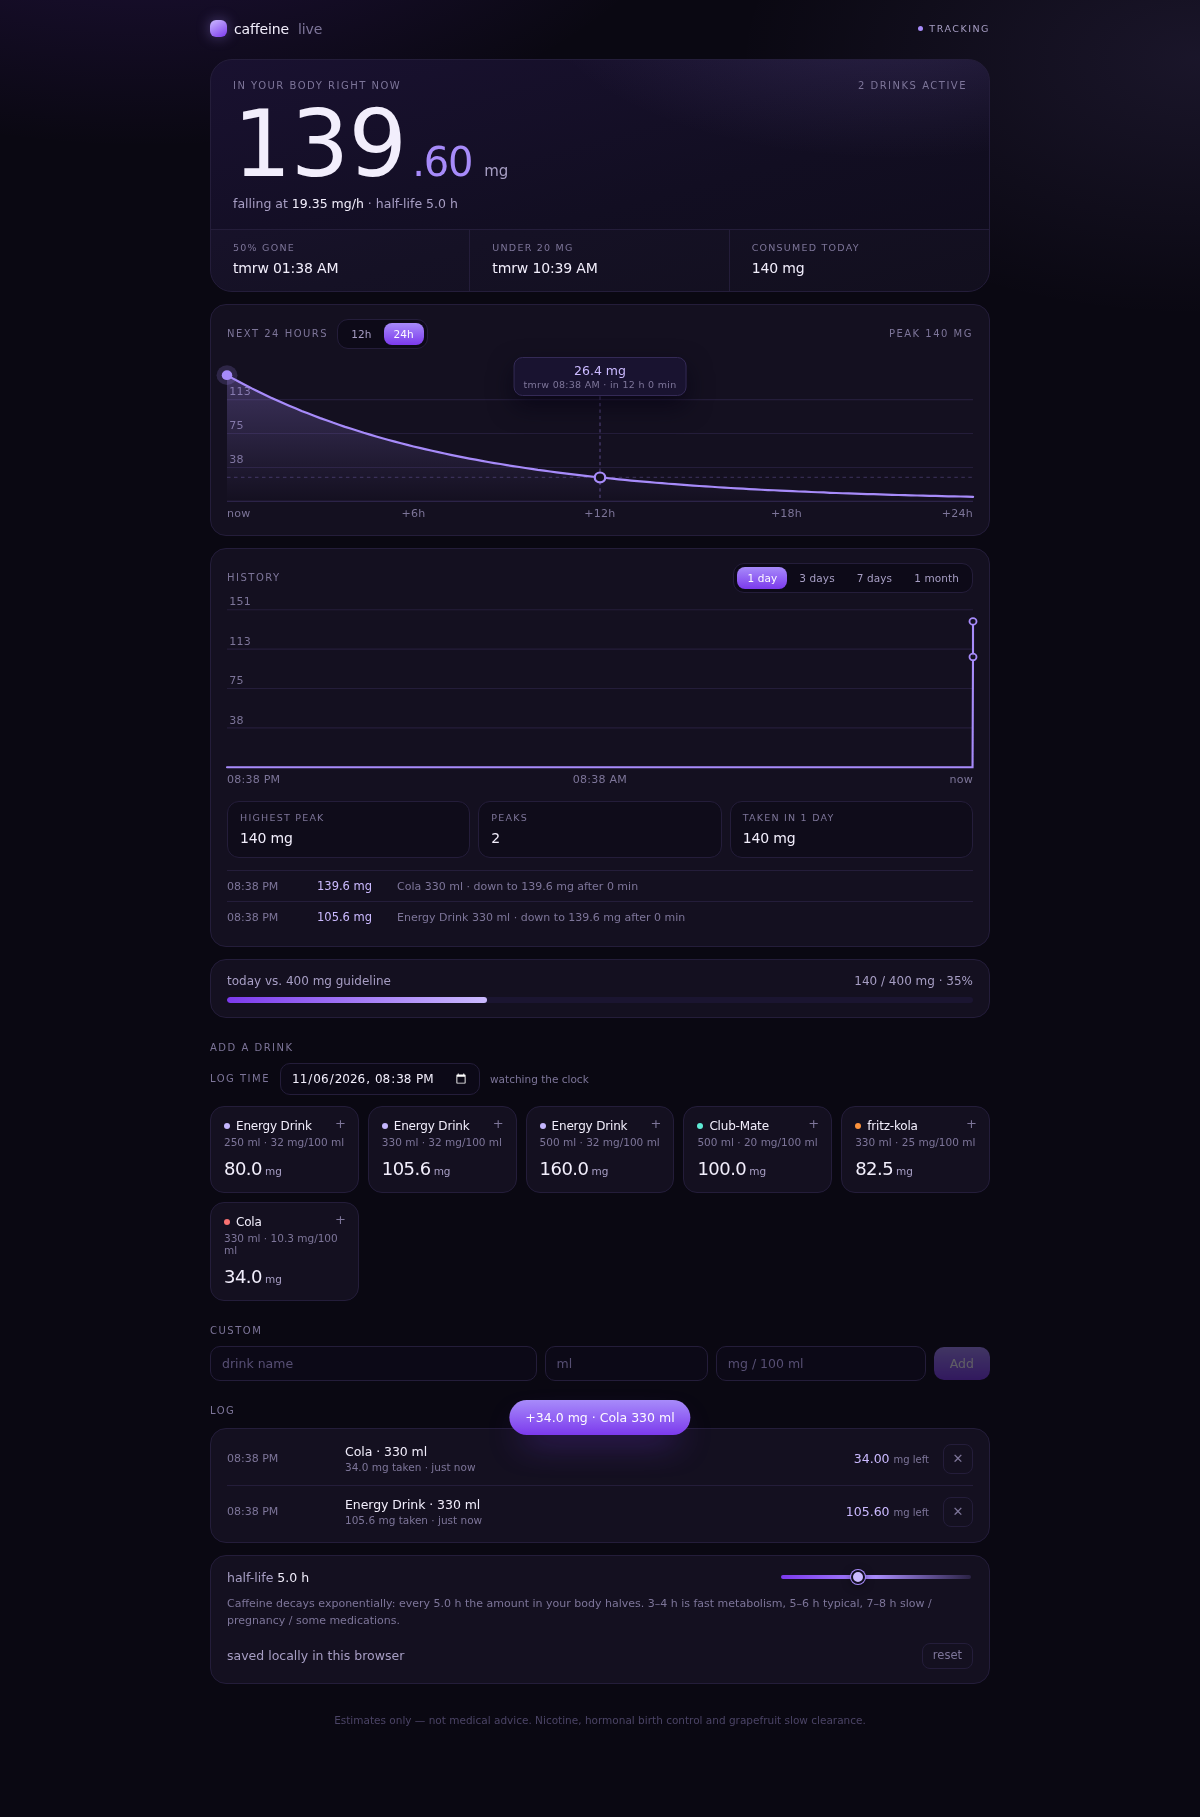
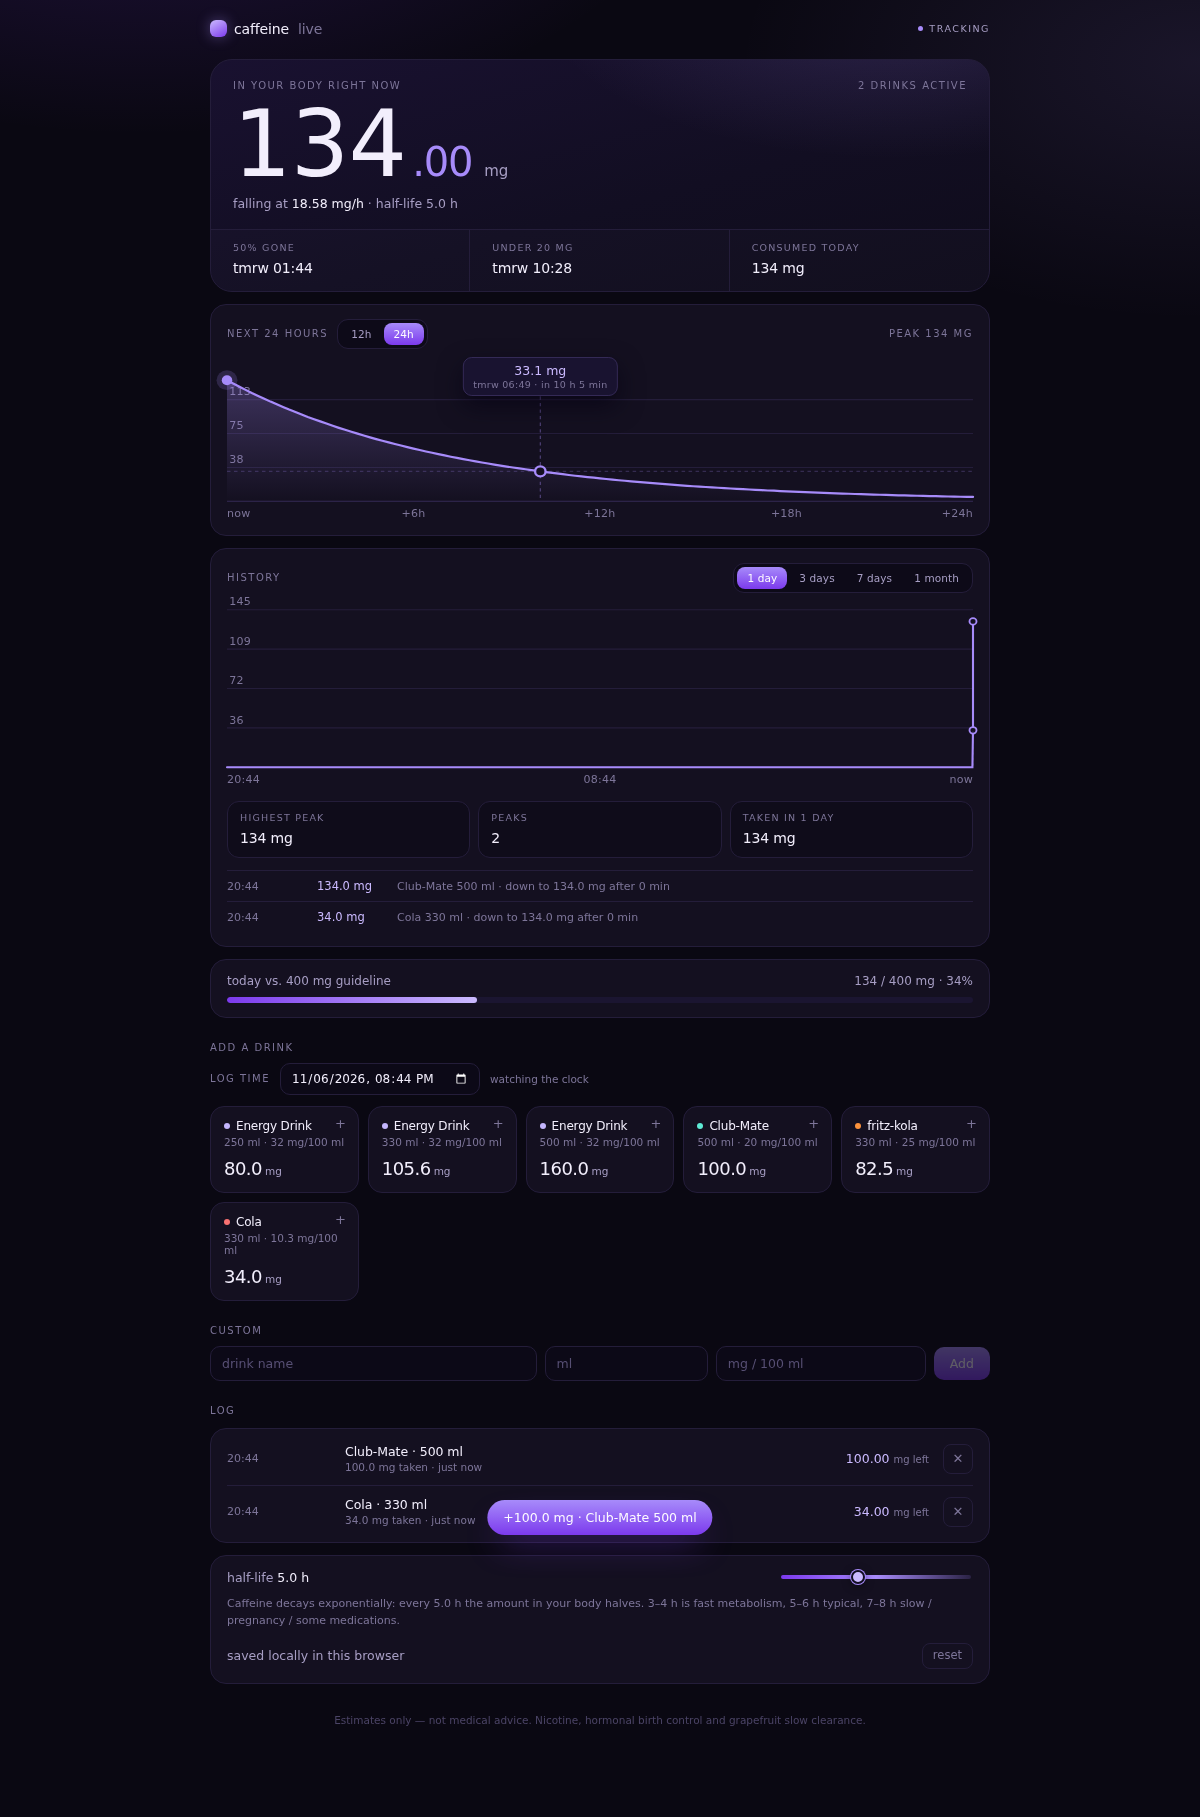
12h/24h preference also drives the clock format, not just the curve

diff --git a/src/App.svelte b/src/App.svelte
@@ -106,9 +106,18 @@
   const halfAt = $derived(atTime(total, total / 2 || 0.01));
   const clearAt = $derived(atTime(total, 20));
 
+  // clocks follow the 12 h / 24 h preference
+  function clock(ts: number) {
+    return new Date(ts).toLocaleTimeString([], {
+      hour: "2-digit",
+      minute: "2-digit",
+      hour12: horizon !== 24,
+    });
+  }
+
   function fmtTime(ts: number) {
     const d = new Date(ts);
-    const hm = d.toLocaleTimeString([], { hour: "2-digit", minute: "2-digit" });
+    const hm = clock(ts);
     const day = d.toDateString();
     if (day === new Date(now).toDateString()) return hm;
     if (day === new Date(now - 24 * HOUR).toDateString()) return "yest " + hm;
@@ -195,7 +204,7 @@
 
   function fmtHistTime(ts: number) {
     const d = new Date(ts);
-    const hm = d.toLocaleTimeString([], { hour: "2-digit", minute: "2-digit" });
+    const hm = clock(d.getTime());
     if (range.ms <= 24.5 * HOUR) return hm;
     if (range.ms <= 8 * 24 * HOUR) {
       return d.toLocaleDateString([], { weekday: "short" }) + " " + hm;
@@ -281,7 +290,7 @@
     const at = whenAt();
     doses = [...doses, { id: uid(), name, volume, mg, at }];
     const past = Date.now() - at > 60000;
-    toast = `+${mg.toFixed(1)} mg · ${name} ${volume} ml${past ? " · " + new Date(at).toLocaleTimeString([], { hour: "2-digit", minute: "2-digit" }) : ""}`;
+    toast = `+${mg.toFixed(1)} mg · ${name} ${volume} ml${past ? " · " + clock(at) : ""}`;
     clearTimeout(toastTimer);
     toastTimer = setTimeout(() => (toast = ""), 2200);
   }

diff --git a/README.md b/README.md
@@ -18,7 +18,9 @@ A(t) = A0 * 0.5^(t / t_half)
 - half-life is selectable, 3-8 h (default 5 h; 3-4 h fast metabolizer, 7-8 h slow /
   pregnancy / some medications)
 - total in the body is the sum of every dose still decaying, recomputed every 50 ms
-- the projection curve is the same formula sampled every 6 min over 12 h
+- the projection curve is the same formula sampled over 12 h or 24 h (picker in the
+  card header); that same 12 h / 24 h setting switches every clock between AM/PM and
+  24-hour time
 - hover (or drag on touch) the curve to read the mg at any future time
 
 ## No backend
